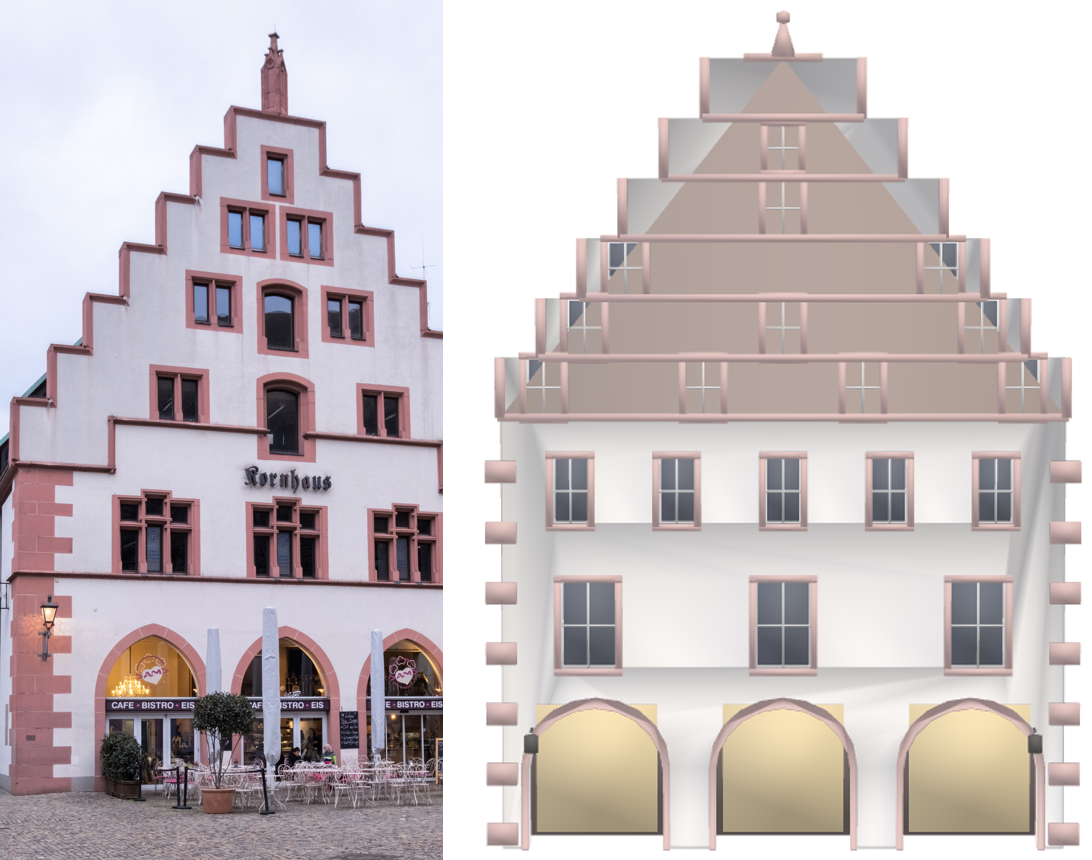
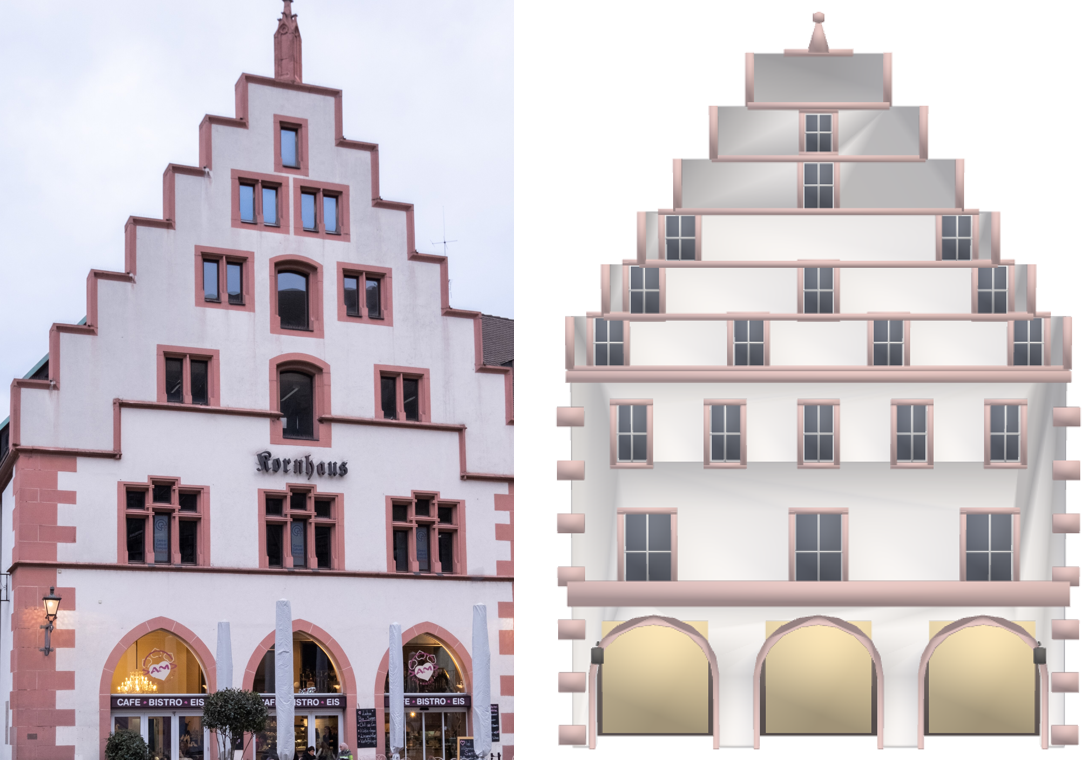
fix(kornhaus): Treppengiebel = KEIN Dach in Frontansicht (Zackenhaus-Regel)
Zentraler Fehler: roof() hatte eine vordere Giebel-Dreiecksflaeche (0,1,4) am
Front-Plan, die in den Himmel-Luecken ZWISCHEN den Treppenstufen als tanfarbenes
'Scheindach' sichtbar war. Bei giebelstaendigen Haeusern (Zackenhaus) IST die
Treppenwand die Front -> das Dach sitzt DAHINTER und ist von vorn verdeckt.

Fix: Satteldach hinter die Fassade (y0=Wandstaerke), First unter die Giebelspitze
(60%), vordere Giebelflaeche entfernt. Dachschraegen liegen unter jeder Stufen-
Tread -> von vorn unsichtbar, erst in Schraeg-/Seitenansicht sichtbar (verifiziert
korn_front vs korn_obl). Zusaetzlich: generische Sandstein-Gurtbaender
(string_courses) -> 'Kornhaus'-Band ueber Arkade + Traufgesims.

diff --git a/tools/giebelhaus_generator.py b/tools/giebelhaus_generator.py
@@ -150,6 +150,10 @@ class Giebelhaus:
             if i < self.nsteps:                                                           # senkrechte Riser-Kanten
                 for xe in (xl, xr):
                     parts.append(slab(xe, -0.12, z + sh / 2, 0.22, 0.24, sh))
+        # Gesims-/Gurtbänder (rosa Sandstein-Stringcourse): über der Arkade (das 'Kornhaus'-Band)
+        # und am Giebelfuß (Traufgesims, auf dem der Treppengiebel aufsetzt)
+        for zb_band, hb in self.cfg["facade"].get("string_courses", []):
+            parts.append(slab(self.W / 2, -0.12, zb_band, self.W + 0.2, 0.26, hb))
         # Eckquader (Eckquaderung) links + rechts im Body (abwechselnd)
         for xe in (0.0, self.W):
             for k in range(int(self.z_body / 0.7)):
@@ -196,11 +200,23 @@ class Giebelhaus:
         return cat(parts)
 
     def roof(self):
-        """einfaches Dach hinter dem Giebel: First vorn an der Spitze, läuft nach hinten,
-        Seitenschrägen zu den Traufen (auf z_body)."""
-        W, D, zb, pk = self.W, self.D, self.z_body, self.peak
-        V = [(0, 0, zb), (W, 0, zb), (0, D, zb), (W, D, zb), (W / 2, 0, pk), (W / 2, D, pk)]
-        F = [(0, 4, 5), (0, 5, 2), (1, 3, 5), (1, 5, 4), (2, 5, 3), (0, 1, 4)]
+        """Satteldach HINTER dem Treppengiebel: First läuft front->hinten (parallel zur Tiefe),
+        Traufen auf z_body an x=0/x=W. WICHTIG (giebelständig/Zackenhaus): das Dach darf in der
+        FRONTANSICHT NICHT sichtbar sein — die Giebel-Treppenwand schirmt es ab. Deshalb:
+        - Dach beginnt HINTER der Fassade (y0 = Wandstärke t, nicht y=0)
+        - First-Höhe < peak (Giebelwand ragt als Staffel über das Dach) -> von vorn voll verdeckt
+        - KEINE vordere Giebel-Dreiecksfläche (die war der sichtbare 'Scheindach'-Fehler)."""
+        W, D, zb, pk, t = self.W, self.D, self.z_body, self.peak, self.t
+        z_ridge = zb + (pk - zb) * 0.60             # First deutlich unter Giebelspitze -> verdeckt
+        y0 = t                                      # hinter der Fassadenwand
+        V = [(0, y0, zb), (W, y0, zb), (0, D, zb), (W, D, zb),
+             (W / 2, y0, z_ridge), (W / 2, D, z_ridge)]
+        F = [(0, 4, 5), (0, 5, 2), (1, 3, 5), (1, 5, 4),   # nur die zwei Dachflächen (Satteldach)
+             (2, 5, 3)]                                     # hinterer Giebel geschlossen
+        # KEINE vordere Giebelfläche: die würde als Dreieck in den Himmel-Lücken zwischen den
+        # Treppenstufen sichtbar = genau der 'Scheindach'-Fehler. Die Dachschrägen selbst liegen
+        # unter jeder Stufen-Tread -> von vorn unsichtbar. Front bleibt offen (Dach ist eigenes
+        # Druckteil, bei Bedarf separat solidifizieren).
         return trimesh.Trimesh(vertices=np.array(V, float), faces=np.array(F))
 
     def lanterns(self):
